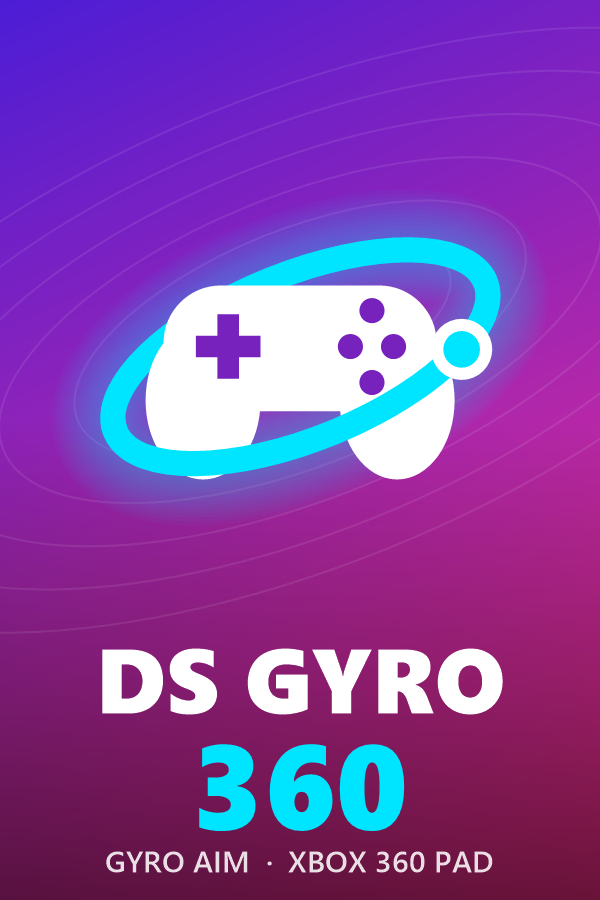
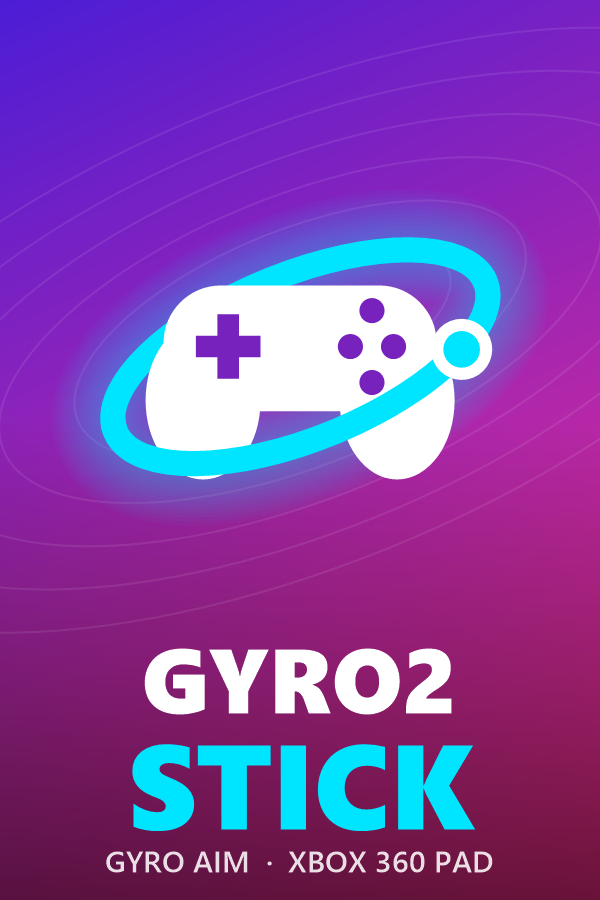
Rename DS Gyro 360 to Gyro2stick
Renames the app, assembly, project file, namespace, docs and Playnite
artwork. Existing installs keep their settings (copied from the old
%APPDATA%\DSGyro360 folder) and the old DSGyro360 logon task is removed
when the new one is created.

Changed region(s): [[0.15, 0.7156, 0.84, 0.9333]]

diff --git a/MainForm.cs b/MainForm.cs
@@ -1,6 +1,6 @@
 using System.Drawing.Drawing2D;
 
-namespace DSGyro360;
+namespace Gyro2stick;
 
 public sealed partial class MainForm : Form
 {
@@ -56,7 +56,7 @@ public sealed partial class MainForm : Form
         _perf = performance;
         _allowShow = !startHidden;
 
-        Text = "DS Gyro 360";
+        Text = "Gyro2stick";
         Icon = AppIcon.Create();
         Font = new Font("Segoe UI", 9f * FontScale);
         FormBorderStyle = FormBorderStyle.FixedSingle;
@@ -160,7 +160,7 @@ public sealed partial class MainForm : Form
         if (_dirty && manual)
         {
             var answer = MessageBox.Show(this, "Apply your unapplied changes to the current profile before switching?",
-                "DS Gyro 360", MessageBoxButtons.YesNoCancel, MessageBoxIcon.Question);
+                "Gyro2stick", MessageBoxButtons.YesNoCancel, MessageBoxIcon.Question);
             if (answer == DialogResult.Cancel)
             {
                 SyncProfileUi();
@@ -191,7 +191,7 @@ public sealed partial class MainForm : Form
         if (ProfileStore.Find(_settings, want) == null) want = GameProfile.DefaultName;
         if (string.Equals(want, _settings.ActiveProfile, StringComparison.OrdinalIgnoreCase)) return;
         ActivateProfile(want, manual: false);
-        _tray.ShowBalloonTip(1500, "DS Gyro 360", "Profile: " + want + (game != null ? $" ({exe})" : ""), ToolTipIcon.None);
+        _tray.ShowBalloonTip(1500, "Gyro2stick", "Profile: " + want + (game != null ? $" ({exe})" : ""), ToolTipIcon.None);
     }
 
     bool _profilesDialogOpen;
@@ -561,7 +561,7 @@ public sealed partial class MainForm : Form
         recal.Click += (_, _) =>
         {
             _manager.RecalibrateAll();
-            _tray.ShowBalloonTip(2000, "DS Gyro 360", "Calibrating gyro - put the controllers down and keep them still for 1 second.", ToolTipIcon.Info);
+            _tray.ShowBalloonTip(2000, "Gyro2stick", "Calibrating gyro - put the controllers down and keep them still for 1 second.", ToolTipIcon.Info);
         };
         grid.Controls.Add(recal, 2, 6);
 
@@ -620,7 +620,7 @@ public sealed partial class MainForm : Form
         {
             if (!_settings.Enabled)
             {
-                MessageBox.Show(this, "Turn the app ON first.", "DS Gyro 360", MessageBoxButtons.OK, MessageBoxIcon.Information);
+                MessageBox.Show(this, "Turn the app ON first.", "Gyro2stick", MessageBoxButtons.OK, MessageBoxIcon.Information);
                 return;
             }
             var ok = MessageBox.Show(this,
@@ -1128,7 +1128,7 @@ public sealed partial class MainForm : Form
                     MessageBoxButtons.OK, MessageBoxIcon.Warning);
         };
         new ToolTip().SetToolTip(_installRtss,
-            "Runs a RivaTuner installer (RTSSSetup….exe or its .zip) copied next to DSGyro360.exe - works offline.");
+            "Runs a RivaTuner installer (RTSSSetup….exe or its .zip) copied next to Gyro2stick.exe - works offline.");
         installRow.Controls.Add(_installRtss);
         grid.Controls.Add(installRow, 0, 9);
         grid.SetColumnSpan(installRow, 3);
@@ -1302,7 +1302,7 @@ public sealed partial class MainForm : Form
         DarkTheme.Apply(menu);
         _tray.ContextMenuStrip = menu;
         _tray.Icon = _settings.Enabled ? _trayOn : _trayOff;
-        _tray.Text = "DS Gyro 360";
+        _tray.Text = "Gyro2stick";
         _tray.Visible = true;
         // Left click toggles ON/OFF (the icon turns grey/colored); double click opens the window.
         // The toggle waits out the double-click time so a double click doesn't switch OFF and back ON.
@@ -1336,7 +1336,7 @@ public sealed partial class MainForm : Form
         bool autostartChanged = _pending.StartWithWindows != _settings.StartWithWindows;
         _settings.CopyOptionsFrom(_pending);
         if (autostartChanged && Autostart.Set(_settings.StartWithWindows) is { } error)
-            MessageBox.Show(this, "Couldn't set up Start with Windows:\n\n" + error, "DS Gyro 360",
+            MessageBox.Show(this, "Couldn't set up Start with Windows:\n\n" + error, "Gyro2stick",
                 MessageBoxButtons.OK, MessageBoxIcon.Warning);
         SaveActiveProfile();
         _settings.Save();
@@ -1402,7 +1402,7 @@ public sealed partial class MainForm : Form
         }
         _list.EndUpdate();
         if (_page == Page.Performance && Visible) RefreshPerformance();
-        _tray.Text =$"DS Gyro 360 - {(_settings.Enabled ? "ON" : "OFF")}, {pads.Count} controller(s)";
+        _tray.Text =$"Gyro2stick - {(_settings.Enabled ? "ON" : "OFF")}, {pads.Count} controller(s)";
     }
 
     void ShowFromTray()
@@ -1445,7 +1445,7 @@ public sealed partial class MainForm : Form
         }
         if (_dirty)
         {
-            var answer = MessageBox.Show(this, "Apply your unapplied changes before exiting?", "DS Gyro 360",
+            var answer = MessageBox.Show(this, "Apply your unapplied changes before exiting?", "Gyro2stick",
                 MessageBoxButtons.YesNoCancel, MessageBoxIcon.Question);
             if (answer == DialogResult.Cancel)
             {

diff --git a/DriverSetup.cs b/DriverSetup.cs
@@ -4,7 +4,7 @@ using System.Security;
 using Nefarius.Drivers.HidHide;
 using Nefarius.ViGEm.Client;
 
-namespace DSGyro360;
+namespace Gyro2stick;
 
 /// <summary>Installs the bundled ViGEmBus / HidHide drivers when they are missing.</summary>
 static class DriverSetup
@@ -51,7 +51,7 @@ static class DriverSetup
             "The following drivers are not installed:\n\n" + string.Join("\n", missing) +
             "\n\nNo internet is needed. Install them now?\n" +
             "(ViGEmBus, HidHide and RivaTuner open their own setup windows; PawnIO and the sensor driver install silently.)",
-            "DS Gyro 360 - Driver setup", MessageBoxButtons.YesNo, MessageBoxIcon.Question);
+            "Gyro2stick - Driver setup", MessageBoxButtons.YesNo, MessageBoxIcon.Question);
 
         bool installedHidHide = false;
         if (answer == DialogResult.Yes)
@@ -64,14 +64,14 @@ static class DriverSetup
             }
             if (!pawnIo && PawnIoSetup.Install() is { } error)
                 MessageBox.Show("PawnIO could not be installed:\n" + error +
-                                "\n\nYou can retry from the Performance page.", "DS Gyro 360",
+                                "\n\nYou can retry from the Performance page.", "Gyro2stick",
                     MessageBoxButtons.OK, MessageBoxIcon.Warning);
             if (!sensor && SensorDriverSetup.Install() is { } sensorError)
-                MessageBox.Show("The GPD motion sensor driver could not be installed:\n" + sensorError, "DS Gyro 360",
+                MessageBox.Show("The GPD motion sensor driver could not be installed:\n" + sensorError, "Gyro2stick",
                     MessageBoxButtons.OK, MessageBoxIcon.Warning);
             if (rtssSetup != null && RtssSetup.Install(rtssSetup) is { } rtssError)
                 MessageBox.Show("RivaTuner could not be installed:\n" + rtssError +
-                                "\n\nYou can retry from the Performance page.", "DS Gyro 360",
+                                "\n\nYou can retry from the Performance page.", "Gyro2stick",
                     MessageBoxButtons.OK, MessageBoxIcon.Warning);
         }
 
@@ -80,7 +80,7 @@ static class DriverSetup
             MessageBox.Show(
                 "ViGEmBus is required to create virtual Xbox 360 controllers.\n" +
                 "If you just installed it, please restart Windows and run the app again.",
-                "DS Gyro 360", MessageBoxButtons.OK, MessageBoxIcon.Error);
+                "Gyro2stick", MessageBoxButtons.OK, MessageBoxIcon.Error);
             return false;
         }
 
@@ -89,7 +89,7 @@ static class DriverSetup
             MessageBox.Show(
                 "HidHide was installed. A Windows restart is needed before controllers can be hidden from games.\n" +
                 "The app will still work now, but games may see both controllers until you restart.",
-                "DS Gyro 360", MessageBoxButtons.OK, MessageBoxIcon.Information);
+                "Gyro2stick", MessageBoxButtons.OK, MessageBoxIcon.Information);
         }
         return true;
     }
@@ -98,7 +98,7 @@ static class DriverSetup
     {
         try
         {
-            var dir = Path.Combine(Path.GetTempPath(), "DSGyro360");
+            var dir = Path.Combine(Path.GetTempPath(), "Gyro2stick");
             Directory.CreateDirectory(dir);
             var file = Path.Combine(dir, resourceName);
             using (var res = Assembly.GetExecutingAssembly().GetManifestResourceStream(resourceName)
@@ -112,7 +112,7 @@ static class DriverSetup
         }
         catch (Exception ex)
         {
-            MessageBox.Show("Could not run " + resourceName + ":\n" + ex.Message, "DS Gyro 360",
+            MessageBox.Show("Could not run " + resourceName + ":\n" + ex.Message, "Gyro2stick",
                 MessageBoxButtons.OK, MessageBoxIcon.Error);
         }
     }
@@ -124,11 +124,14 @@ static class DriverSetup
 /// </summary>
 static class Autostart
 {
-    const string TaskName = "DSGyro360";
+    const string TaskName = "Gyro2stick";
+    /// <summary>The task name used before the app was renamed from DS Gyro 360.</summary>
+    const string LegacyTaskName = "DSGyro360";
 
     /// <summary>Creates (or removes) the logon task. Returns null on success, else what went wrong.</summary>
     public static string? Set(bool enable)
     {
+        RunSchtasks($"/Delete /F /TN {LegacyTaskName}");
         if (!enable)
         {
             RunSchtasks($"/Delete /F /TN {TaskName}");
@@ -164,7 +167,7 @@ static class Autostart
               </Actions>
             </Task>
             """;
-        var tmp = Path.Combine(Path.GetTempPath(), "DSGyro360_task.xml");
+        var tmp = Path.Combine(Path.GetTempPath(), "Gyro2stick_task.xml");
         try
         {
             File.WriteAllText(tmp, xml, System.Text.Encoding.Unicode);

diff --git a/Profiles.cs b/Profiles.cs
@@ -2,7 +2,7 @@ using System.Diagnostics;
 using System.Runtime.InteropServices;
 using System.Text.Json;
 
-namespace DSGyro360;
+namespace Gyro2stick;
 
 /// <summary>A named set of options, optionally tied to games (exe names) that switch to it automatically.</summary>
 public sealed class GameProfile
@@ -24,7 +24,7 @@ static class ProfileStore
 {
     sealed class ExportFile
     {
-        public string App { get; set; } = "DS Gyro 360";
+        public string App { get; set; } = "Gyro2stick";
         public int Version { get; set; } = 1;
         public DateTime Exported { get; set; }
         public string ActiveProfile { get; set; } = GameProfile.DefaultName;
@@ -80,7 +80,7 @@ static class ProfileStore
     {
         ExportFile? file;
         try { file = JsonSerializer.Deserialize<ExportFile>(File.ReadAllText(path), JsonOpts); }
-        catch (Exception ex) { throw new InvalidDataException("This isn't a DS Gyro 360 profile file (" + ex.Message + ")."); }
+        catch (Exception ex) { throw new InvalidDataException("This isn't a Gyro2stick profile file (" + ex.Message + ")."); }
         if (file?.Profiles == null || file.Profiles.Count == 0)
             throw new InvalidDataException("The file has no profiles in it.");
         foreach (var p in file.Profiles)
@@ -369,8 +369,8 @@ sealed class ProfilesDialog : Form
         using var dlg = new SaveFileDialog
         {
             Title = "Export profiles",
-            Filter = "DS Gyro 360 profiles (*.json)|*.json",
-            FileName = $"DSGyro360-profiles-{DateTime.Now:yyyy-MM-dd}.json",
+            Filter = "Gyro2stick profiles (*.json)|*.json",
+            FileName = $"Gyro2stick-profiles-{DateTime.Now:yyyy-MM-dd}.json",
         };
         if (dlg.ShowDialog(this) != DialogResult.OK) return;
         try
@@ -387,7 +387,7 @@ sealed class ProfilesDialog : Form
 
     void Import()
     {
-        using var dlg = new OpenFileDialog { Title = "Import profiles", Filter = "DS Gyro 360 profiles (*.json)|*.json|All files (*.*)|*.*" };
+        using var dlg = new OpenFileDialog { Title = "Import profiles", Filter = "Gyro2stick profiles (*.json)|*.json|All files (*.*)|*.*" };
         if (dlg.ShowDialog(this) != DialogResult.OK) return;
         List<GameProfile> incoming;
         string active;

diff --git a/AppSettings.cs b/AppSettings.cs
@@ -1,6 +1,6 @@
 using System.Text.Json;
 
-namespace DSGyro360;
+namespace Gyro2stick;
 
 public enum GyroActivation
 {
@@ -153,8 +153,11 @@ public sealed class AppSettings
     public List<string> DisabledAudioIds { get; set; } = new();
 
     static readonly string Dir = Path.Combine(
-        Environment.GetFolderPath(Environment.SpecialFolder.ApplicationData), "DSGyro360");
+        Environment.GetFolderPath(Environment.SpecialFolder.ApplicationData), "Gyro2stick");
     static readonly string FilePath = Path.Combine(Dir, "settings.json");
+    /// <summary>Where settings lived before the app was renamed from DS Gyro 360.</summary>
+    static readonly string LegacyFilePath = Path.Combine(
+        Environment.GetFolderPath(Environment.SpecialFolder.ApplicationData), "DSGyro360", "settings.json");
     static readonly JsonSerializerOptions JsonOpts = new() { WriteIndented = true };
     readonly object _saveLock = new();
 
@@ -229,6 +232,11 @@ public sealed class AppSettings
     {
         try
         {
+            if (!File.Exists(FilePath) && File.Exists(LegacyFilePath))
+            {
+                Directory.CreateDirectory(Dir);
+                File.Copy(LegacyFilePath, FilePath);
+            }
             if (File.Exists(FilePath))
             {
                 var s = JsonSerializer.Deserialize<AppSettings>(File.ReadAllText(FilePath), JsonOpts) ?? new();

diff --git a/Performance.cs b/Performance.cs
@@ -2,7 +2,7 @@ using System.Diagnostics;
 using System.Runtime.InteropServices;
 using Microsoft.Win32;
 
-namespace DSGyro360;
+namespace Gyro2stick;
 
 public enum PerfProfile { Off, Fps30, Fps45, Fps60 }
 public enum FanMode { Auto, Curve, Fixed }
@@ -417,7 +417,7 @@ static class Rtss
 
 /// <summary>
 /// RivaTuner can't be bundled, but for offline PCs its installer (RTSSSetup*.exe, or the zip from Guru3D that
-/// contains it) can be copied next to DSGyro360.exe and run from the app.
+/// contains it) can be copied next to Gyro2stick.exe and run from the app.
 /// </summary>
 static class RtssSetup
 {
@@ -453,7 +453,7 @@ static class RtssSetup
             string setup = path;
             if (path.EndsWith(".zip", StringComparison.OrdinalIgnoreCase))
             {
-                tempDir = Path.Combine(Path.GetTempPath(), "DSGyro360_RTSS");
+                tempDir = Path.Combine(Path.GetTempPath(), "Gyro2stick_RTSS");
                 if (Directory.Exists(tempDir)) Directory.Delete(tempDir, true);
                 System.IO.Compression.ZipFile.ExtractToDirectory(path, tempDir);
                 setup = Directory.EnumerateFiles(tempDir, "*.exe", SearchOption.AllDirectories)

diff --git a/BuiltIn.cs b/BuiltIn.cs
@@ -3,7 +3,7 @@ using Microsoft.Win32;
 using Nefarius.Utilities.DeviceManagement.PnP;
 using Windows.Devices.Sensors;
 
-namespace DSGyro360;
+namespace Gyro2stick;
 
 /// <summary>Whether the handheld's own controller is taken over (Auto = only on known handhelds such as the GPD Win 4).</summary>
 public enum BuiltInMode { Auto, On, Off }
@@ -117,7 +117,7 @@ public static class SensorDriverSetup
     /// <summary>Extracts the driver and installs it. Null on success, else the problem.</summary>
     public static string? Install()
     {
-        var dir = Path.Combine(Path.GetTempPath(), "DSGyro360_GpdSensor");
+        var dir = Path.Combine(Path.GetTempPath(), "Gyro2stick_GpdSensor");
         try
         {
             if (Directory.Exists(dir)) Directory.Delete(dir, true);

diff --git a/Program.cs b/Program.cs
@@ -1,16 +1,16 @@
 using Nefarius.ViGEm.Client;
 
-namespace DSGyro360;
+namespace Gyro2stick;
 
 static class Program
 {
     [STAThread]
     static void Main(string[] args)
     {
-        using var mutex = new Mutex(true, "DSGyro360_SingleInstance", out bool firstInstance);
+        using var mutex = new Mutex(true, "Gyro2stick_SingleInstance", out bool firstInstance);
         if (!firstInstance)
         {
-            MessageBox.Show("DS Gyro 360 is already running (check the system tray).", "DS Gyro 360",
+            MessageBox.Show("Gyro2stick is already running (check the system tray).", "Gyro2stick",
                 MessageBoxButtons.OK, MessageBoxIcon.Information);
             return;
         }

diff --git a/Macros.cs b/Macros.cs
@@ -1,7 +1,7 @@
 using System.Diagnostics;
 using System.Runtime.InteropServices;
 
-namespace DSGyro360;
+namespace Gyro2stick;
 
 // =====================================================================================================
 // Macros (modelled on reWASD's combos): a controller button combination + an activator starts a sequence of

diff --git a/ControllerManager.cs b/ControllerManager.cs
@@ -3,7 +3,7 @@ using Nefarius.Drivers.HidHide;
 using Nefarius.Utilities.DeviceManagement.PnP;
 using Nefarius.ViGEm.Client;
 
-namespace DSGyro360;
+namespace Gyro2stick;
 
 /// <summary>
 /// Finds DualShock 4 / DualSense pads, runs a <see cref="DsController"/> per pad and keeps

diff --git a/DarkTheme.cs b/DarkTheme.cs
@@ -2,7 +2,7 @@
 using System.Runtime.CompilerServices;
 using System.Runtime.InteropServices;
 
-namespace DSGyro360;
+namespace Gyro2stick;
 
 /// <summary>
 /// Material Design 3 dark theme for the WinForms window: Material colour roles, rounded cards for the sections,

diff --git a/Remap.cs b/Remap.cs
@@ -2,7 +2,7 @@
 using System.Runtime.InteropServices;
 using System.Text;
 
-namespace DSGyro360;
+namespace Gyro2stick;
 
 /// <summary>
 /// One controller button's job in a remap preset. <see cref="Output"/> is a key combination ("Space", "Ctrl+S"),

diff --git a/DsController.cs b/DsController.cs
@@ -4,7 +4,7 @@ using Nefarius.ViGEm.Client;
 using Nefarius.ViGEm.Client.Targets;
 using Nefarius.ViGEm.Client.Targets.Xbox360;
 
-namespace DSGyro360;
+namespace Gyro2stick;
 
 public enum PadKind { DualShock4, DualSense, Handheld }
 
